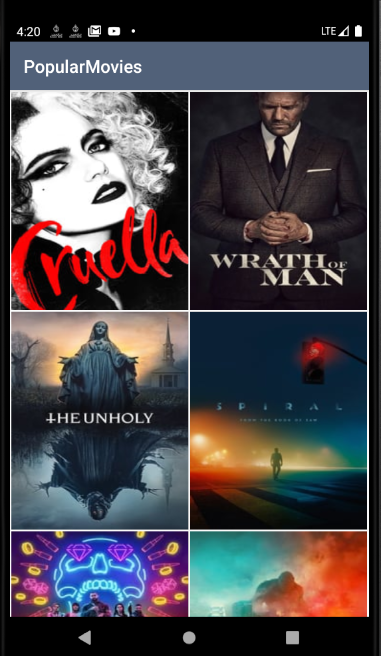
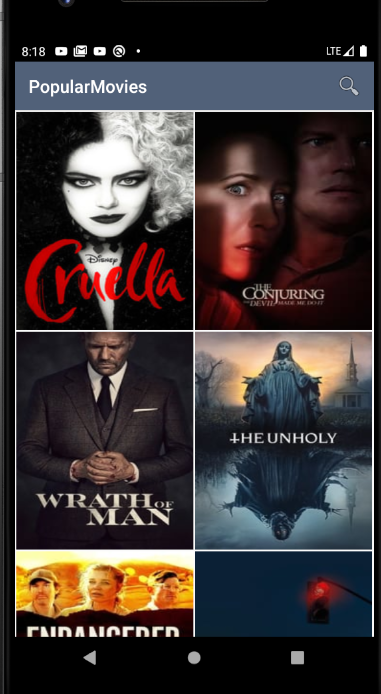
search functionality implementation

diff --git a/app/src/main/java/ahmed/atwa/popularmovies/movies/domain/MovieSourceFactory.kt b/app/src/main/java/ahmed/atwa/popularmovies/movies/domain/MovieSourceFactory.kt
@@ -4,12 +4,20 @@ import ahmed.atwa.popularmovies.movies.data.Movie
 import ahmed.atwa.popularmovies.movies.data.MovieFilterSource
 import ahmed.atwa.popularmovies.movies.data.MoviePagingSource
 import ahmed.atwa.popularmovies.movies.data.MovieRepo
+import ahmed.atwa.popularmovies.movies.presentation.MovieAdapter
 import androidx.paging.PagingSource
 import javax.inject.Inject
 
-class MovieSourceFactory @Inject constructor(private val movieRepo: MovieRepo) {
+class MovieSourceFactory @Inject constructor() {
+
+    @Inject
+    lateinit var movieFilterSource: MovieFilterSource
+
+    @Inject
+    lateinit var moviePagingSource: MoviePagingSource
+
     fun getSource( filterText: String): PagingSource<Int, Movie> {
-        return if (filterText.isBlank() || filterText.isEmpty()) MoviePagingSource(movieRepo)
-        else MovieFilterSource(movieRepo,filterText)
+        return if (filterText.isBlank() || filterText.isEmpty()) moviePagingSource
+        else movieFilterSource.apply { this.filterText = filterText }
     }
 }

diff --git a/app/src/main/java/ahmed/atwa/popularmovies/movies/data/MovieRepoImp.kt b/app/src/main/java/ahmed/atwa/popularmovies/movies/data/MovieRepoImp.kt
@@ -27,15 +27,22 @@ class MovieRepoImp @Inject constructor(
             if (moviesResponse == null) moviesResponse = response.data
             else
         moviesResponse?.results.also {
-                it?.addAll(response.data.results)
-            }?.let {moviesResponse = response.data.copy(results = it) }
+            it?.addAll(response.data.results)
+        }?.let {
+            moviesResponse = response.data.copy()
+            moviesResponse!!.results = it
+        }
         }
         return response
     }
 
     override suspend fun getFilteredPopularMovies(filterText: String): MovieResponse? {
         val result = moviesResponse?.results?.filter { movie -> movie.title?.contains(filterText, true) == true }?.toList()
-        result?.let { return moviesResponse?.copy(results = ArrayList(it)) }
+        result?.let {
+            val response = moviesResponse?.copy()
+            response?.results = ArrayList(it)
+            return response
+        }
         return null
     }
 

diff --git a/app/src/main/java/ahmed/atwa/popularmovies/movies/di/MovieSourceModule.kt b/app/src/main/java/ahmed/atwa/popularmovies/movies/di/MovieSourceModule.kt
@@ -1,0 +1,29 @@
+package ahmed.atwa.popularmovies.movies.di
+
+import ahmed.atwa.popularmovies.movies.data.MovieFilterSource
+import ahmed.atwa.popularmovies.movies.data.MoviePagingSource
+import ahmed.atwa.popularmovies.movies.data.MovieRepoImp
+import ahmed.atwa.popularmovies.movies.domain.MovieSourceFactory
+import dagger.Module
+import dagger.Provides
+import javax.inject.Singleton
+
+@Module
+class MovieSourceModule {
+    @Provides
+    internal fun provideMoviesSource(): MovieSourceFactory {
+        return MovieSourceFactory()
+    }
+
+    @Provides
+    @Singleton
+    internal fun provideMoviesPagingSource(movieRepoImp: MovieRepoImp): MoviePagingSource {
+        return MoviePagingSource(movieRepoImp)
+    }
+
+    @Provides
+    @Singleton
+    internal fun provideMoviesFilterSource(movieRepoImp: MovieRepoImp): MovieFilterSource {
+        return MovieFilterSource(movieRepoImp)
+    }
+}

diff --git a/app/src/main/java/ahmed/atwa/popularmovies/movies/data/MovieFilterSource.kt b/app/src/main/java/ahmed/atwa/popularmovies/movies/data/MovieFilterSource.kt
@@ -2,12 +2,16 @@ package ahmed.atwa.popularmovies.movies.data
 
 import androidx.paging.PagingSource
 import androidx.paging.PagingState
+import javax.inject.Inject
 
-class MovieFilterSource(private val repo: MovieRepo, private val filterText:String) : PagingSource<Int, Movie>() {
+class MovieFilterSource @Inject constructor(private val repo: MovieRepo) : PagingSource<Int, Movie>() {
+
+    var filterText:String? = null
 
     override suspend fun load(params: LoadParams<Int>): LoadResult<Int, Movie> {
-        return try {
-            val movieListResponse = repo.getFilteredPopularMovies(filterText)!!
+        return if (filterText == null) LoadResult.Error(Exception(""))
+        else try {
+            val movieListResponse = repo.getFilteredPopularMovies(filterText!!)!!
             LoadResult.Page(
                     data = movieListResponse.results,
                     prevKey = null,

diff --git a/app/src/main/java/ahmed/atwa/popularmovies/movies/di/MoviesFragmentProvider.kt b/app/src/main/java/ahmed/atwa/popularmovies/movies/di/MoviesFragmentProvider.kt
@@ -4,6 +4,7 @@ package ahmed.atwa.popularmovies.movies.di
 
 import ahmed.atwa.popularmovies.movies.di.MoviesFragmentModule
 import ahmed.atwa.popularmovies.movies.presentation.MoviesFragment
+import ahmed.atwa.popularmovies.utils.network.UrlModule
 import dagger.Module
 import dagger.android.ContributesAndroidInjector
 
@@ -14,7 +15,7 @@ import dagger.android.ContributesAndroidInjector
 @Module
 abstract class MoviesFragmentProvider {
 
-    @ContributesAndroidInjector(modules =[(MoviesFragmentModule::class)])
+    @ContributesAndroidInjector(modules =[(MoviesFragmentModule::class),(MovieSourceModule::class),])
     internal abstract fun provideMainFragmentFactory(): MoviesFragment
 
 }

diff --git a/app/src/main/java/ahmed/atwa/popularmovies/movies/data/MoviePagingSource.kt b/app/src/main/java/ahmed/atwa/popularmovies/movies/data/MoviePagingSource.kt
@@ -3,8 +3,9 @@ package ahmed.atwa.popularmovies.movies.data
 import ahmed.atwa.popularmovies.utils.network.ResultType
 import androidx.paging.PagingSource
 import androidx.paging.PagingState
+import javax.inject.Inject
 
-class MoviePagingSource(private val repo: MovieRepo) : PagingSource<Int, Movie>() {
+class MoviePagingSource @Inject constructor(private val repo: MovieRepo) : PagingSource<Int, Movie>() {
 
     override suspend fun load(params: LoadParams<Int>): LoadResult<Int, Movie> {
         return try {

diff --git a/app/src/main/java/ahmed/atwa/popularmovies/movies/di/MoviesFragmentModule.kt b/app/src/main/java/ahmed/atwa/popularmovies/movies/di/MoviesFragmentModule.kt
@@ -29,11 +29,6 @@ class MoviesFragmentModule {
     }
 
     @Provides
-    internal fun provideMoviesSource(movieRepoImp: MovieRepoImp): MovieSourceFactory {
-        return MovieSourceFactory(movieRepoImp)
-    }
-
-    @Provides
     internal fun provideMovieAdapter(): MovieAdapter {
         return MovieAdapter()
     }

diff --git a/README.md b/README.md
@@ -2,6 +2,8 @@
 Android Sample app to show user latest movies implementing  MVVM + Clean Architecture using kotlin following solid and clean code principles .
 
 ![Latest Movies](movies.png)
+![Movies Search Hint](movies_search_hint.png)
+![Latest Search](movies_search.png)
 ![Movie Details](detail.png)
 ![Liked Movie Details](detail_liked.png)
 
@@ -23,7 +25,7 @@ Kotlin, MVVM, Retrofit, Room, Coroutines, Dagger2, Navigation-component, Unit-Te
 **Each package is divided into multiple packages demonstrated as following.**
 
 - data : Contains data layer which has local & remote data sources with repository implementation.
-- domain : Contains the domain layer wiht entity and mapper.
+- domain : Contains the domain layer wiht factory logic & mapper before.
 - di : Contains all dagger depndencies mapping.
 - presentation : Contains the view layer that consists of views & viewModels.
 
